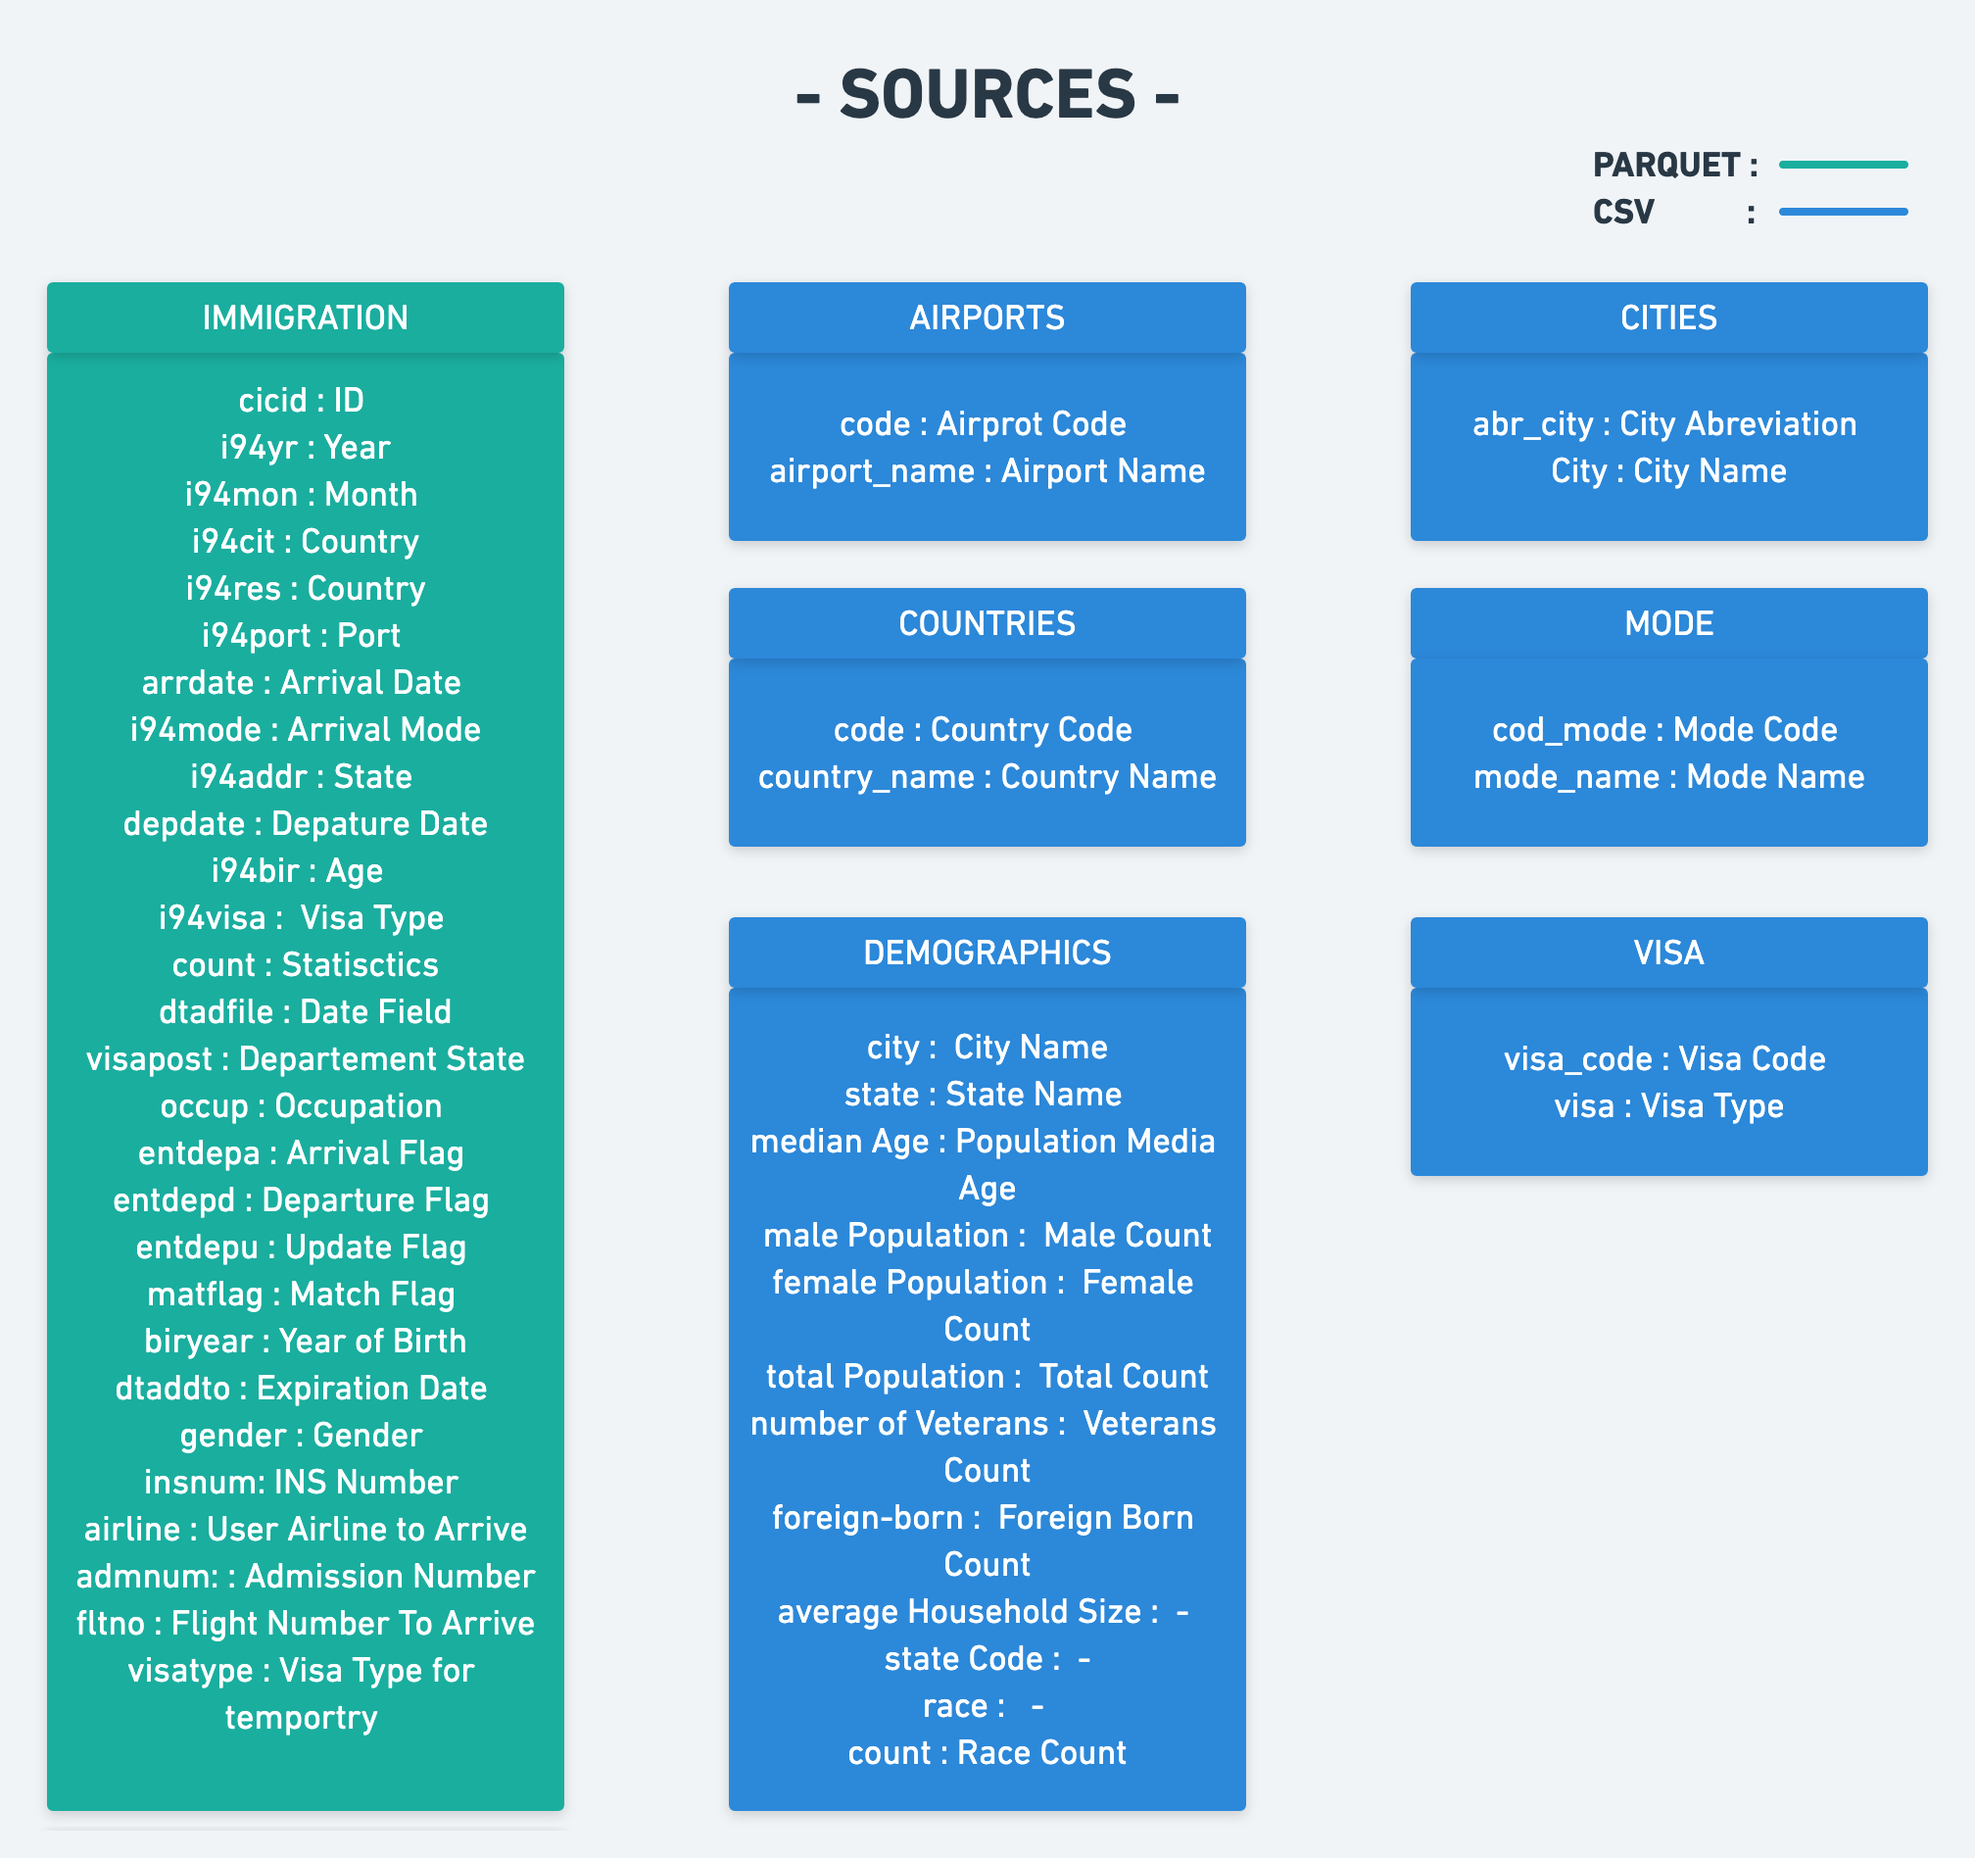
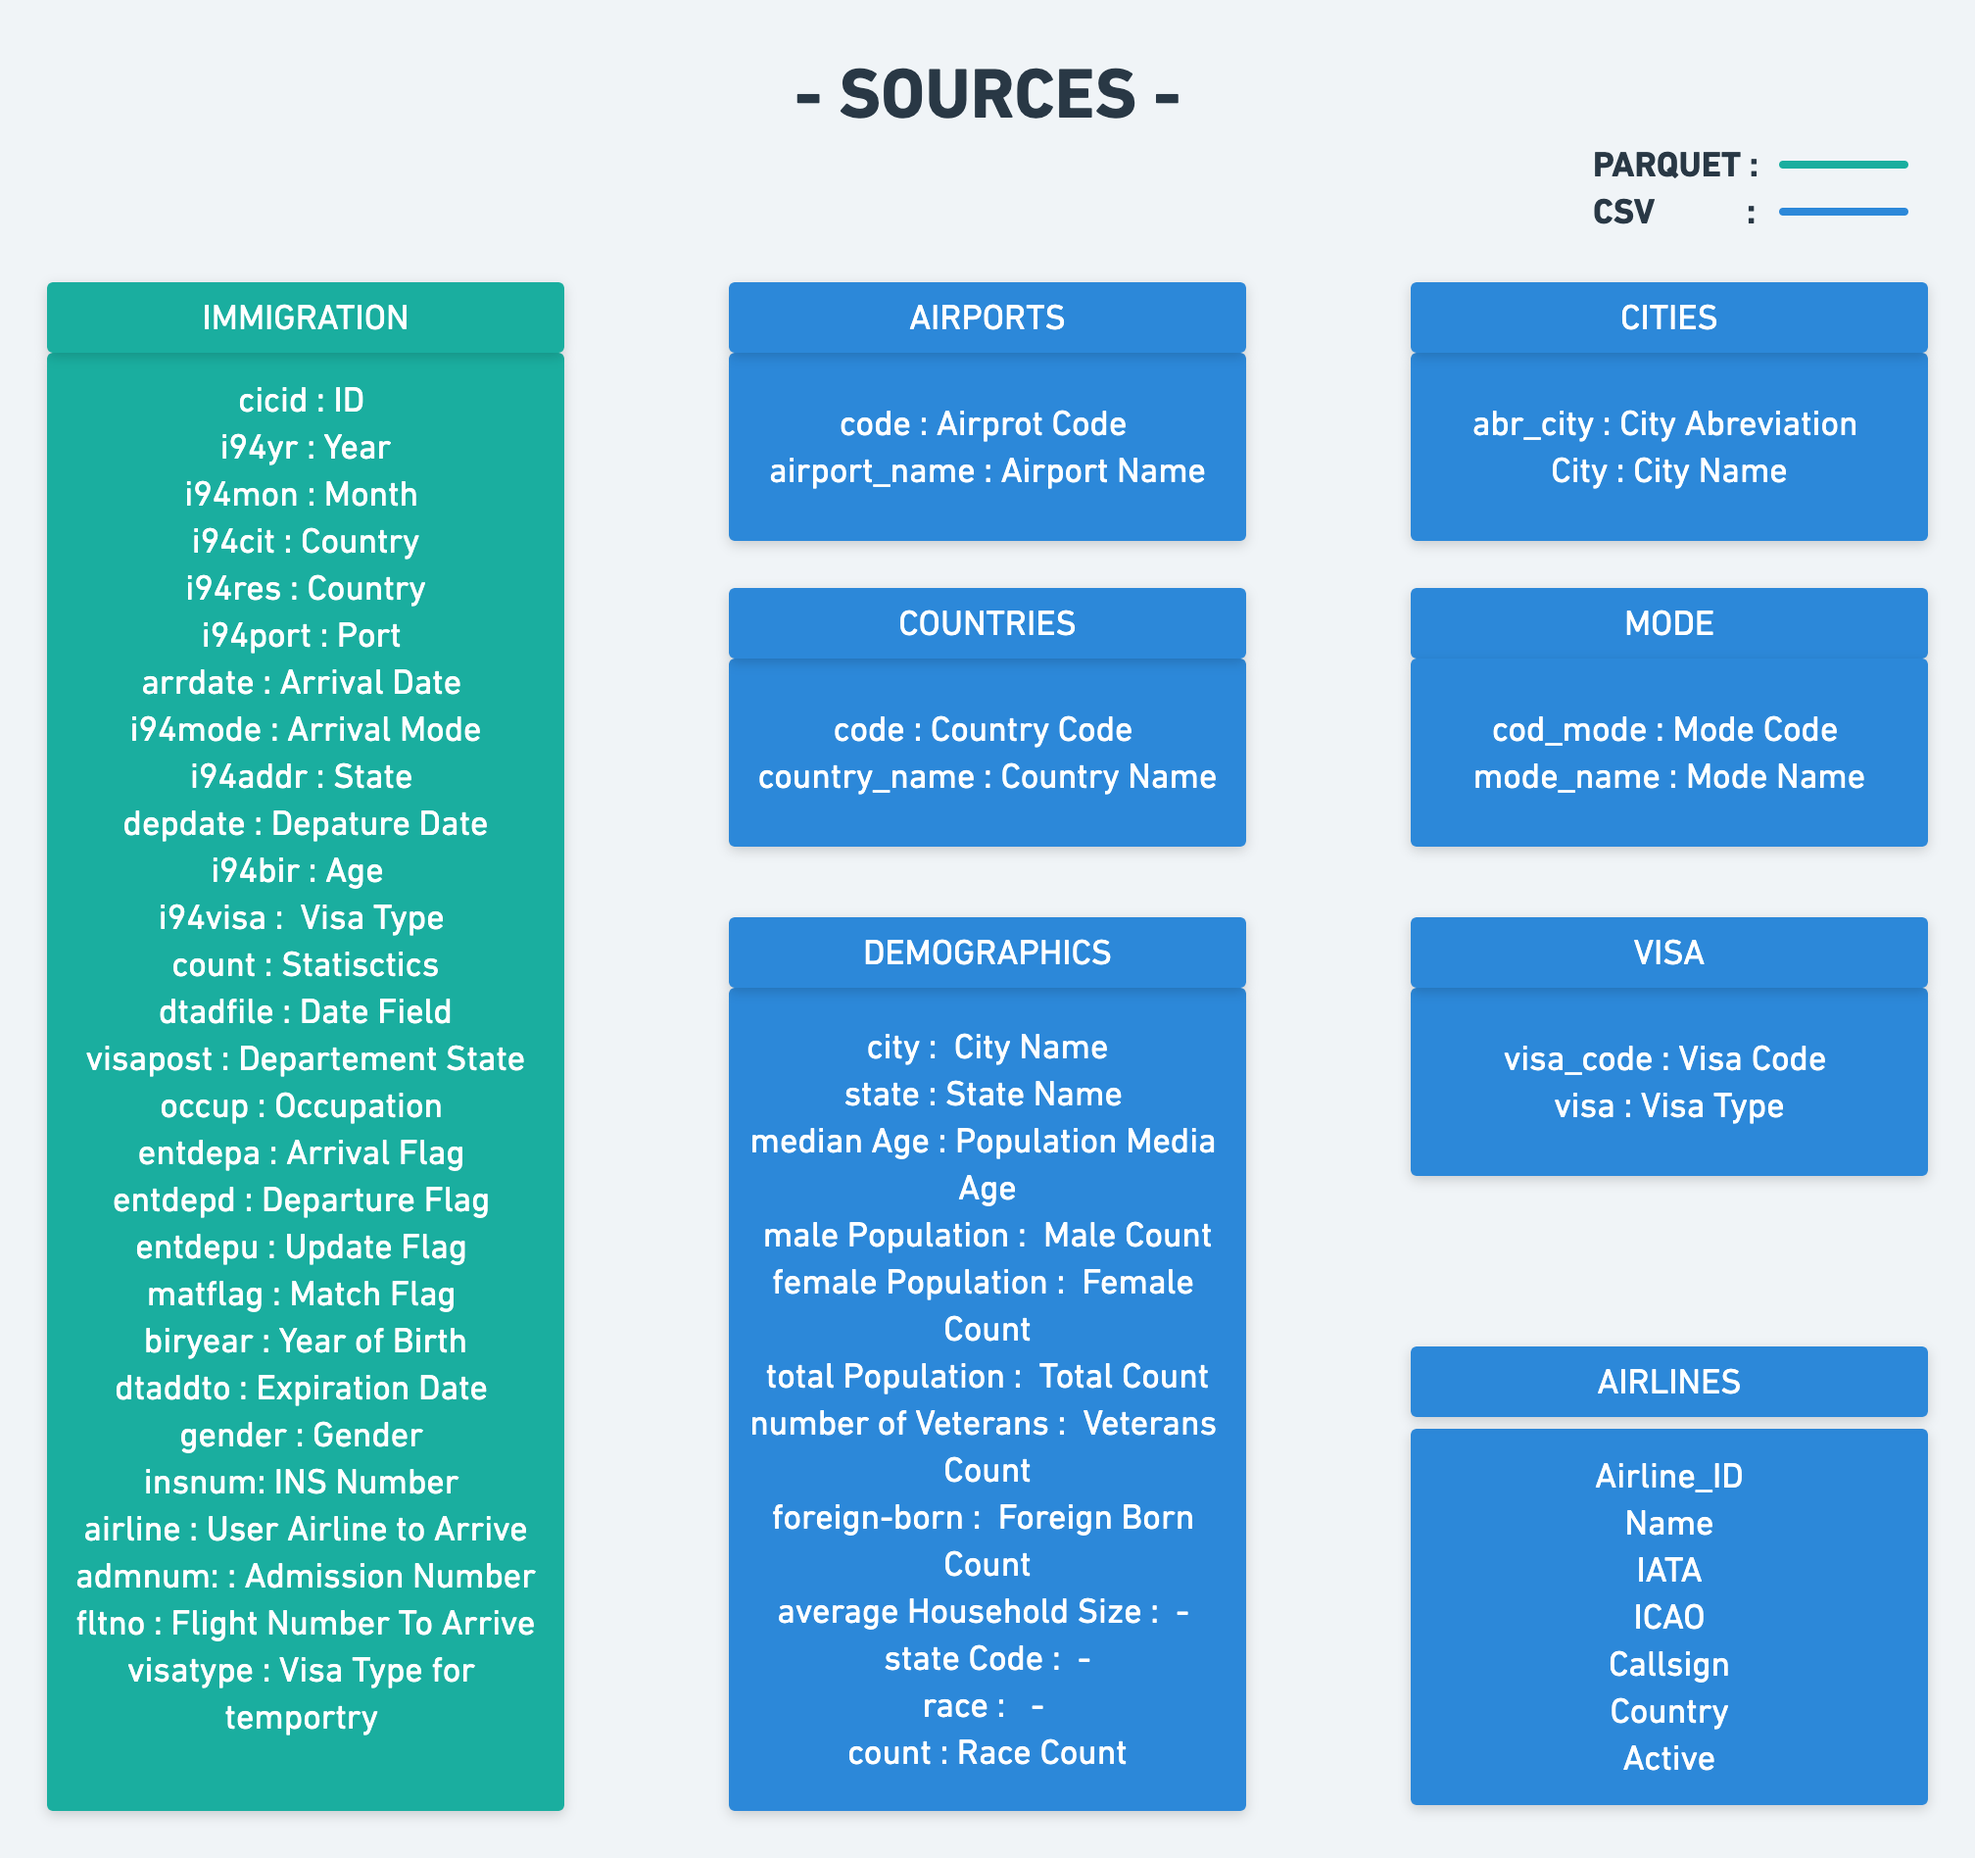
Completing Cleaner & Adding Modeler

Changed region(s): [[0.6875, 0.7157, 1.0, 0.9958]]

diff --git a/helpers/cleaner.py b/helpers/cleaner.py
@@ -18,29 +18,43 @@ class Cleaner():
         self.spark = spark
 
     @staticmethod
-    def cleaning_demographics_data(dataFrame):
+    def cleansing_demographics(dataFrame):
         # filling null with 0
         dataFrame = dataFrame.na.fill({
             'Median Age':0,'Male Population':0,'Female Population':0,'Total Population':0,'Number of Veterans':0,
             "Foreign-born":0,'Average Household Size':0,'Count':0,
         })
-        dataFrame =dataFrame.dropDuplicates()
+        dataFrame =dataFrame.withColumn('demo_state_code',F.col('State Code')).drop('State Code')\
+            .withColumn('demo_other_races_count',F.col('Total Population') - F.col('Count'))\
+            .withColumn("demo_median_age",F.col("Median Age")).drop("Median Age")\
+            .withColumn("demo_male_population",F.col("Male Population")).drop("Male Population")\
+            .withColumn("demo_total_population",F.col('Total Population')).drop("Total Population")\
+            .withColumn("demo_race_count", F.col('count')).drop("count") \
+            .withColumn("demo_city", F.col('city')).drop("city") \
+            .withColumn("demo_state", F.col('state')).drop("state") \
+            .withColumn("demo_race", F.col('race')).drop("race") \
+ \
+            #.dropDuplicates()
         return dataFrame
 
     @staticmethod
-    def cleanning_airports_data(dataFrame):
+    def cleansing_airports(dataFrame):
         dataFrame = dataFrame.where((F.col('iso_country') == "US") & (F.col('type').isin('small_airport','medium_airport','large_airport'))).\
         withColumn('iso_region', F.substring(F.col('iso_region'),4,2))
 
         return dataFrame
 
     @staticmethod
-    def cleanning_immigration_data(dateFrame):
-        dataFrame = dateFrame.withColumn("immigration_id", F.col('cicid').cast('integer')).withColumn(
+    def cleansing_immigration(dateFrame):
+        dataFrame = dateFrame.withColumn("immigration_id", F.col('cicid').cast('integer')).\
+            withColumn(
             'immigration_year', F.col('i94yr').cast('integer')). \
-            withColumn("immigration_month", F.col("i94mon").cast("integer")).withColumn(
-            'immigration_country_cit', F.col('i94cit')).withColumn(
-            'immigration_visa_post', F.col('visapost')).withColumn(
+            withColumn("immigration_month", F.col("i94mon").cast("integer")).\
+            withColumn(
+            'immigration_country_cit', F.col('i94cit')).\
+            withColumn(
+            'immigration_visa_post', F.col('visapost')).\
+            withColumn(
             'immigration_expiration_data', F.col('dtaddto')). \
             withColumn("immigration_country_origin", F.col("i94res")).withColumn('immigration_country_port',
                                                                                  F.col("i94port")). \
@@ -48,20 +62,26 @@ class Cleaner():
                                                                                  F.to_date(F.lit('10/01/1960'),
                                                                                            "MM/dd/yyyy")).withColumn(
             'arrdate_int', F.col('arrdate').cast('int')). \
-            withColumn('depdate_int', F.col('depdate').cast('int')).withColumn("immigration_arrival_data", F.expr(
-            "date_add(date_base, arrdate_int)")). \
-            withColumn("immigration_departure_date", F.expr("date_add(date_base,depdate_int)")) \
-            .withColumn("immigration_arrival_mode", F.col("i94mode")).withColumn('age', F.col('i94bir').cast(
-            "integer")).withColumn('immigration_visa_code', F.col('i94visa').cast('integer')) \
-            .withColumn("immigration_count", F.col('count').cast('int')).withColumn("immigration_admission_number",
-                                                                                    F.col('admnum').cast('integer')) \
-            .withColumn('immigration_flight_number', F.col('fltno')).withColumn('immigration_visa_type',
-                                                                                       F.col('visatype')) \
-            .withColumn("bird_year", F.col("biryear").cast("integer")). \
+            withColumn('depdate_int', F.col('depdate').cast('int')).\
+            withColumn("immigration_arrival_date", F.expr("date_add(date_base, arrdate_int)")). \
+            withColumn("immigration_departure_date", F.expr("date_add(date_base,depdate_int)")).\
+            withColumn("immigration_arrival_month",F.month(F.col('immigration_arrival_date'))). \
+            withColumn("immigration_arrival_year", F.year(F.col('immigration_arrival_date'))). \
+            withColumn("immigration_departure_year", F.month(F.col('immigration_departure_date'))). \
+            withColumn("immigration_departure_month", F.year(F.col('immigration_departure_date'))). \
+            withColumn("immigration_arrival_mode", F.col("i94mode")).\
+            withColumn('age', F.col('i94bir').cast("integer")).\
+            withColumn('immigration_visa_code', F.col('i94visa').cast('integer')).\
+            withColumn("immigration_count", F.col('count').cast('int')).\
+            withColumn("immigration_admission_number",F.col('admnum').cast('integer')).\
+            withColumn('immigration_flight_number', F.col('fltno')).withColumn('immigration_visa_type',F.col('visatype')) \
+            .withColumn("bird_year", F.col("biryear").cast("integer")).\
             drop("cicid").drop("i94yr").drop("i94mon").drop("i94cit").drop("i94res").drop("i94port").drop(
             "i94addr").drop("date_base").drop('dtaddto'). \
             drop("arrdate").drop("depdate").drop("i94mode").drop("i94bir").drop("i94visa").drop("fltno").drop(
             "visatype").drop("arrdate_int").drop("depdate_int").drop("admnum").drop("biryear").drop("visapost")
+
+
         return dataFrame.select(F.col("immigration_id"), F.col("immigration_country_port"),
                                 F.col("immigration_country_state"), F.col("immigration_visa_post"), F.col("matflag"),
                                 F.col("immigration_expiration_data")
@@ -71,33 +91,40 @@ class Cleaner():
                                 , F.col("immigration_country_origin"), F.col("immigration_country_cit"),
                                 F.col("immigration_year"), F.col("immigration_month"),
                                 F.col("bird_year")
-                                , F.col("age"), F.col("immigration_count"), F.col("immigration_arrival_data"),
-                                F.col("immigration_departure_date"))
+                                , F.col("age"), F.col("immigration_count"), F.col("immigration_arrival_date"),
+                                F.col("immigration_departure_date"),F.col("immigration_arrival_month"),
+                                F.col("immigration_departure_month"),F.col("immigration_arrival_year"),
+                                F.col("immigration_departure_year"))
 
     @staticmethod
-    def get_countries(countries):
+    def cleansing_countries(countries):
         country = countries \
-            .withColumn("code", "immigration_country_code")
+            .withColumn("immigration_country_code", F.col('code')).drop("code").dropDuplicates()
         return country
 
     @staticmethod
-    def get_visa(visa):
+    def cleansing_visa(visa):
         visa = visa \
-            .withColumn("visa_code", "immigration_visa_code")
+            .withColumn("immigration_visa_code", F.col("visa_code")).drop("visa_code").dropDuplicates()
         return visa
 
     @staticmethod
-    def get_mode(mode):
+    def cleansing_mode(mode):
         modes = mode \
             .withColumn("immmigration_mode_code", F.col("cod_mode").cast("integer")) \
-            .withColumn(" mode_name", "immigration_mode_name")
+            .withColumn("immigration_mode_name", F.col(" mode_name")).drop("cod_mode").drop("mode_name").dropDuplicates()
         return modes
 
     @staticmethod
-    def get_airlines(airlines):
+    def cleansing_airlines(airlines):
         airlines = airlines \
             .where((F.col("IATA").isNotNull()) & (F.col("Airline_ID") > 1)) \
-            .drop("Alias")
+            .drop("Alias").dropDuplicates()
 
         return airlines
+
+    @staticmethod
+    def denomarlization_demographics_states(demographics,states):
+        df = demographics.join(states,demographics.State_Code == states.Abbreviation).drop("Abbreviation")
+        return df
 

diff --git a/DataPipeline.py b/DataPipeline.py
@@ -6,13 +6,13 @@ from pyspark.sql import SparkSession
 from pyspark.sql import functions as F
 from helpers.gather import Gather
 from helpers.cleaner import Cleaner
+from helpers.modeler import Modeler
 
 spark = SparkSession.builder.config("spark.jars.packages","saurfang:spark-sas7bdat:2.0.0-s_2.11").appName("ImmigrationProject").getOrCreate()
 
-
 # Scope The Project and Gather Data
 """
-Since We are processing large files from different soucrs we will use Spark and Schema on read 
+Since We are processing large files from different soucrs we will use Spark and head() on read 
 1  - Check different Files Types from Different Sources : 
     - Csv
     - Dat 
@@ -40,26 +40,40 @@ data_files = {
     "states":"data/us_states.csv",
     "visa":"data/visa.csv"
 }
-
 Source = Gather(spark,data_files)
 
-#airlines = Source.get_airlines_data()
+## Data Gathering From Sources Files
+airlines = Source.get_airlines_data()
 immigration = Source.get_immigration_data()
-#airports = Source.get_airports_data()
-#cities = Source.get_cities_data()
-#countries = Source.get_countries_data()
-#mode = Source.get_mode_data()cleanning_immigration_data
-#demographics = Source.get_demographics_data()
-#states = Source.get_states_data()
-#visa = Source.get_visa_data()
+airports = Source.get_airports_data()
+cities = Source.get_cities_data()
+countries = Source.get_countries_data()
+mode = Source.get_mode_data()
+demographics = Source.get_demographics_data()
+states = Source.get_states_data()
+visa = Source.get_visa_data()
 
-#demographics = Cleaner.cleaning_demographics_data(demographics)
-#airports = Cleaner.cleanning_airports_data(airports)
-#print(immigration.describe())
-immigration = Cleaner.cleanning_immigration_data(immigration)
+
+## Data Processing & Cleansing
+demographics = Cleaner.cleansing_demographics(demographics)
+airports = Cleaner.cleansing_airports(airports)
+immigration = Cleaner.cleansing_immigration(immigration)
+countries = Cleaner.cleansing_countries(countries)
+mode = Cleaner.cleansing_mode(mode)
+visa = Cleaner.cleansing_visa(visa)
+airlines = Cleaner.cleansing_airlines(airlines)
+
+# After Data Modeling : Creating Data Model
+dim_demographics = Modeler.dim_demographics(demographics)
+
+# Describe data after Modeling
+print(demographics.head())
+print(airports.head())
 print(immigration.head())
-#print(spark.read.csv("").select(F.col('type')))
-
-
-
+print(cities.head())
+print(countries.head())
+print(mode.head())
+print(visa.head())
+print(states.head())
+print(airlines.head())
 

diff --git a/helpers/modeler.py b/helpers/modeler.py
@@ -1,0 +1,12 @@
+
+
+from pyspark.sql import functions as F
+
+class Modeler():
+    def __init__(self,spark):
+        self.spark = spark
+
+    @staticmethod
+    def dim_demographics(demographics):
+        return demographics.select("demo_state_code","demo_state","demo_median_age","demo_male_population","demo_total_population","demo_city"
+                                   ,"demo_race","demo_race_count","demo_other_races_count")
